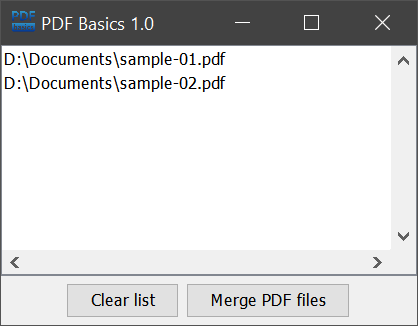
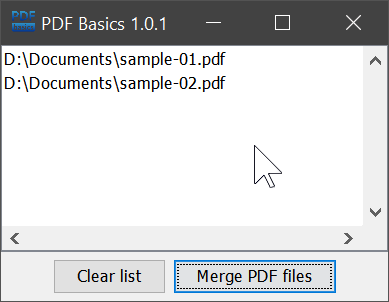
small clean-up

diff --git a/src/main/java/pdfbasics/PdfBasicsMain.java b/src/main/java/pdfbasics/PdfBasicsMain.java
@@ -37,7 +37,7 @@ public class PdfBasicsMain extends JFrame {
 	}
 
 	public PdfBasicsMain(final PdfMerger pdfMerger) {
-		super("PDF Basics 1.0");
+		super("PDF Basics 1.0.1");
 		this.pdfMerger = pdfMerger;
 
 		final Image icon = Toolkit.getDefaultToolkit().getImage(getClass().getResource("pdfbasics.png"));
@@ -57,9 +57,7 @@ public class PdfBasicsMain extends JFrame {
 		getContentPane().add(scrollPane, BorderLayout.CENTER);
 
 		final JButton clearListButton = new JButton("Clear list");
-		clearListButton.addActionListener(e -> {
-			listModel.clear();
-		});
+		clearListButton.addActionListener(e -> listModel.clear());
 		
 		final JButton mergeButton = new JButton("Merge PDF files");
 		mergeButton.addActionListener(e -> {

diff --git a/README.md b/README.md
@@ -6,7 +6,7 @@ It allows you to compile a list of PDF files via drag and drop and merge it into
 
 ## Setup ##
 
-* Download [pdfbasics-1.0-win-64.zip](https://github.com/JensPiegsa/pdfbasics/releases/download/1.0.1/pdfbasics-1.0.1-win-64.zip) (30MB)
+* Download [pdfbasics-1.0.1-win-64.zip](https://github.com/JensPiegsa/pdfbasics/releases/download/1.0.1/pdfbasics-1.0.1-win-64.zip) (30MB)
 * Unzip the archive locally
 * Run `pdfbasics.exe`
 
